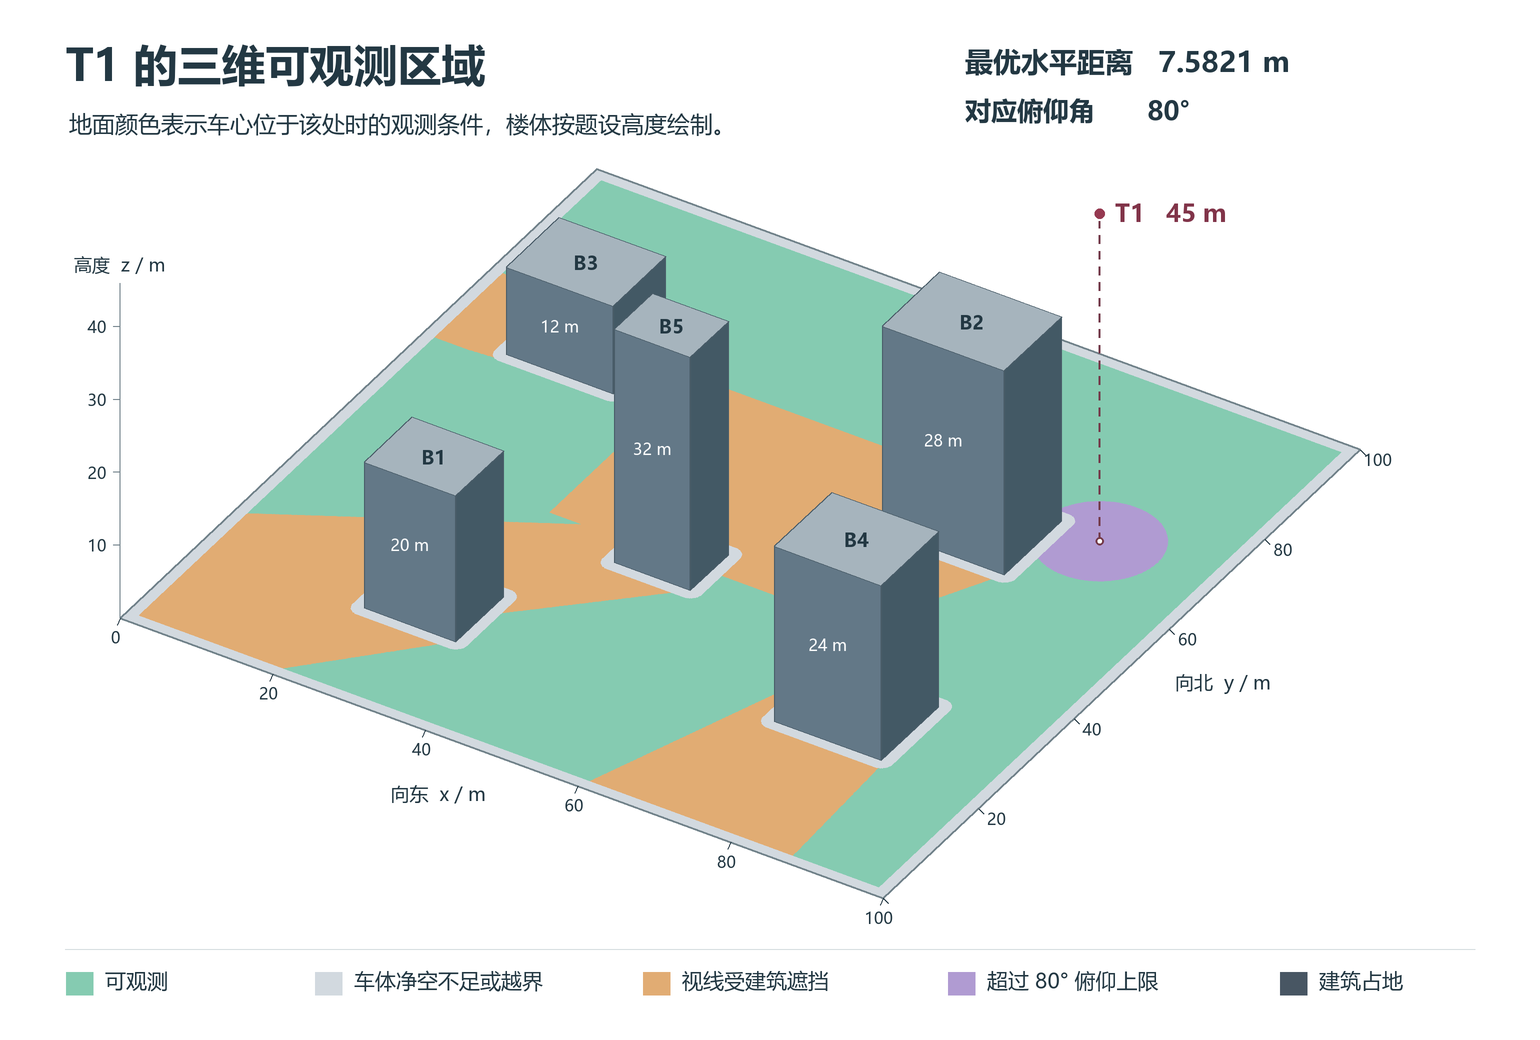
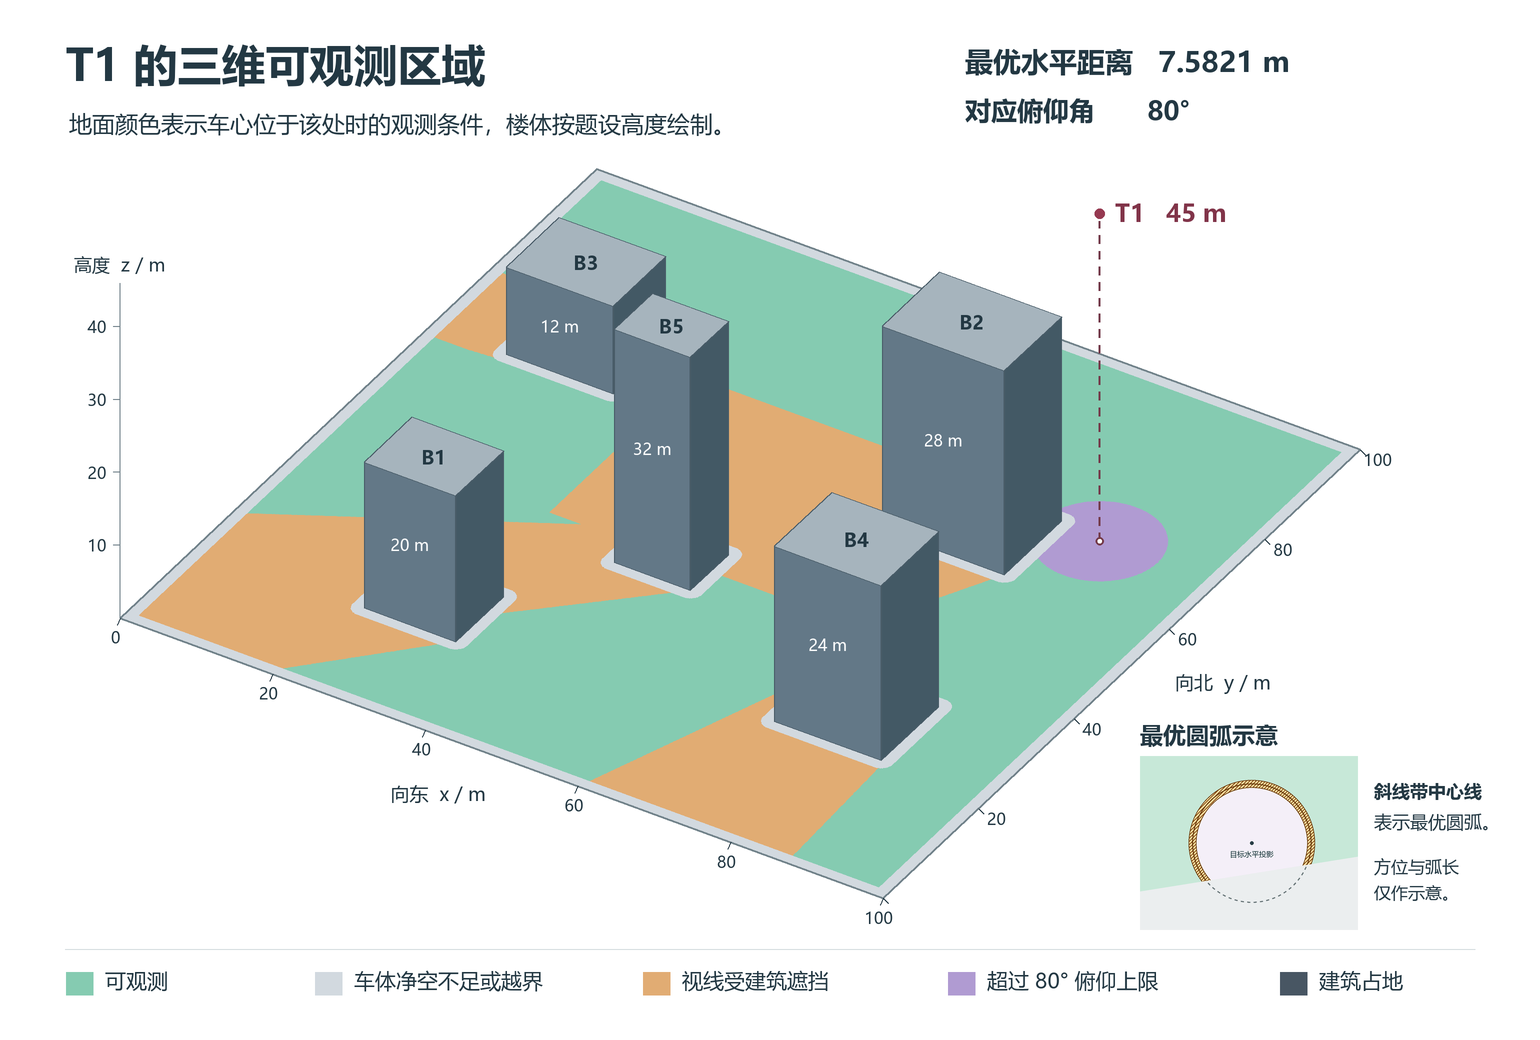
将最优圆弧示意嵌入第一问三维图

Changed region(s): [[0.7169, 0.6769, 0.9662, 0.8615]]

diff --git a/第一问/代码/q1_figure_3d.py b/第一问/代码/q1_figure_3d.py
@@ -100,6 +100,16 @@ def draw():
             d.line(pts+[pts[0]],fill="#495c68",width=ZOOM)
         label(point((x0+x1)/2,(y0+y1)/2,h),f"B{i}",size=19,bold=True)
         label(point((x0+x1)/2,y0,h*0.55),f"{h} m",size=16,color="white")
+    text(1140,719,"最优圆弧示意",23,bold=True)
+    # Reuse the illustration panel from the companion schematic.
+    with Image.open(IMAGE_DIR/"最优站位集合_阴影示意.png") as sketch:
+        panel=sketch.crop((44,140,522,522))
+        im.paste(panel.resize((218*ZOOM,174*ZOOM),Image.Resampling.LANCZOS),
+                 (1140*ZOOM,756*ZOOM))
+    text(1374,778,"斜线带中心线",18,bold=True)
+    text(1374,809,"表示最优圆弧。",18)
+    text(1374,855,"方位与弧长",17)
+    text(1374,881,"仅作示意。",17)
     y=966
     line((65*ZOOM,(y-17)*ZOOM),((WIDTH-65)*ZOOM,(y-17)*ZOOM),"#d6dde0")
     for x,c,s in zip([66,315,643,948,1280],COLORS,

diff --git a/workbook.md b/workbook.md
@@ -35,3 +35,5 @@
 ## sw26-q1-arc
 - 用阴影示意等距圆与可观测域的交集，加入第一问图片及节点产物。
 - 已目视检查阴影、中心线与示意说明，B/C/D 三个节点均已核对。
+- 继续按用户指定将阴影示意嵌入三维图右下角，复用同一任务工作区，并同步节点页。
+- 三维 PNG 已重绘并目视检查，插图不遮挡坐标和楼体；节点页图片内容核对通过。
